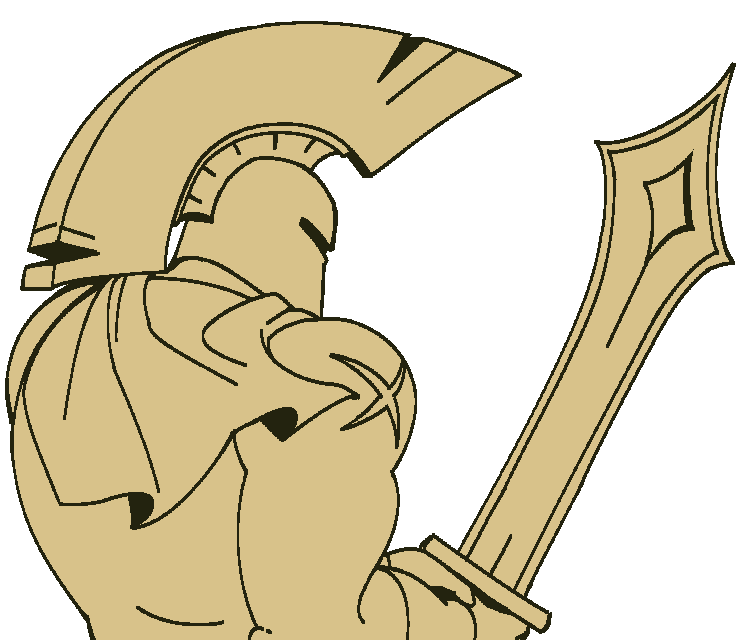
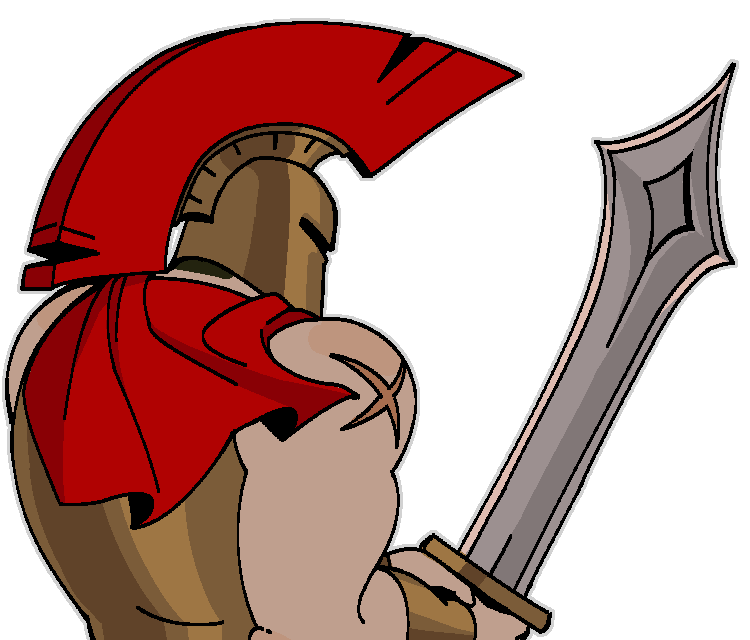
change of sprite

diff --git a/src/system/combat/combat_aff.c b/src/system/combat/combat_aff.c
@@ -21,7 +21,7 @@ void afficherCombat(SDL_Renderer *renderer, Fighter *joueur, Mob ennemi,SDL_Rect
     SDL_Surface* image;
     switch(joueur->classeID){
         case 0:
-            image = SDL_LoadBMP("assets/archer.bmp");
+            image = IMG_Load("assets/archer_combat.png");
             break;
         case 1:
             image = IMG_Load("assets/gladiateur_combat.png");
